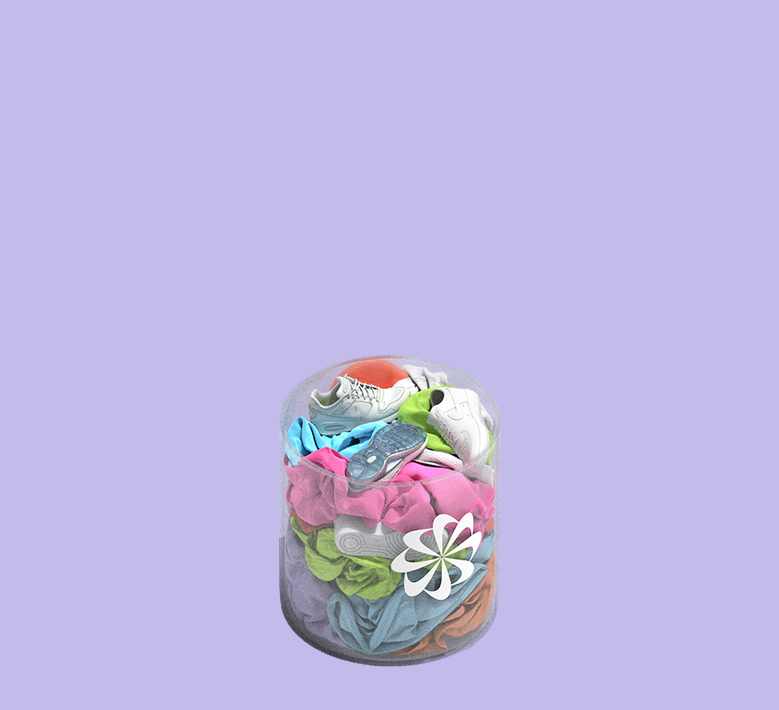
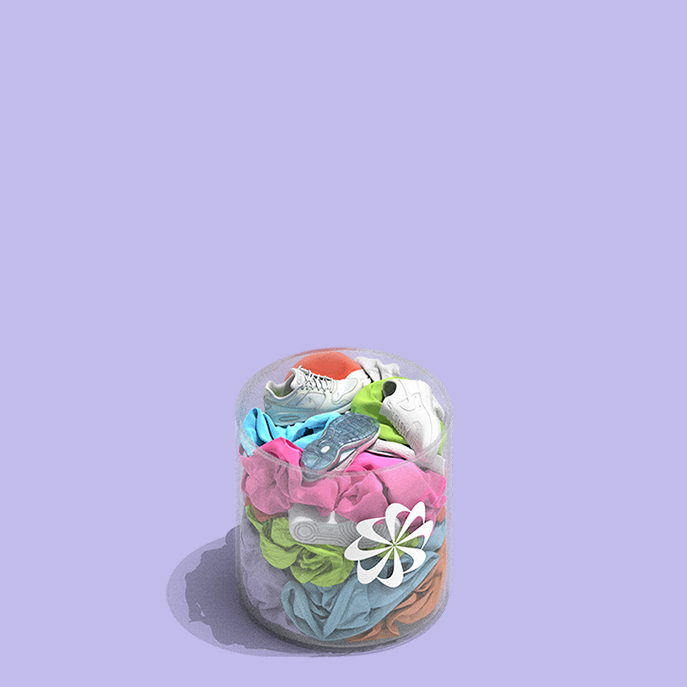
update

Changed region(s): [[0.2445, 0.4891, 0.6725, 0.9782]]

diff --git a/pages/active-activist.js b/pages/active-activist.js
@@ -45,6 +45,7 @@ let data = {
         mobile: {
           bubbleBottom: 75,
           bubbleLeft: 25,
+          bubbleRight: -25,
           avatarWidth: 73,
           avatarLeft: -28,
           avatarBottom: -7,
@@ -129,8 +130,8 @@ let data = {
             text: 'You decide it’s time to give something back to your community, make yourself useful somehow. Something sports related because…'
         },  
         {
-            type: 'tap spam',
-            title: 'Tap spam to make your choice',
+            type: 'like',
+            title: 'Like to make your choice',
             heartImg: `${process.env.basePath}/images/like/heart-fill-ivy.png`,
             squares: [
               {
@@ -166,20 +167,18 @@ let data = {
           text: 'You didn’t think you’d ever last more than a minute playing sports. But a year on from joining the team it’s become such an important part of your life. And that’s because:'
         },
         {
-          type: 'scratch',
-          title: 'Scratch out your choice',
+          type: 'like',
+          title: 'Like to make your choice',
           squares: [
             {
               id: 1,
               title: 'Sport gives you purpose',
-              img: `${process.env.basePath}/images/active-activist/objects/Play_Q4_background.png`,
-              imgBack: `${process.env.basePath}/images/logos/MOVE_TO_ZERO.png`
+              img: `${process.env.basePath}/images/active-activist/objects/Play_Q4.png`,
             },
             {
               id: 1,
               title: 'Sport gives you confidence',
-              img: `${process.env.basePath}/images/active-activist/objects/Play_Q4_background.png`,
-              imgBack: `${process.env.basePath}/images/logos/MOVE_TO_ZERO.png`
+              img: `${process.env.basePath}/images/active-activist/objects/Play_Q4.png`,
             }
           ],
           information: [

diff --git a/components/device-rotation.js b/components/device-rotation.js
@@ -10,7 +10,7 @@ const Container = styled.div`
     left: 0;
     height: 100%;
     width: 100%;
-    background: black;
+    // background: black;
     z-index: 999;
 
     &.show {
@@ -22,61 +22,10 @@ const Container = styled.div`
     }
 
     p {
-        color: white;
+        color: black;
     }
 `;
 
-
-const Overlay = styled.div`
-    position: fixed;
-    height: 100vh;
-    width: 100vw;
-    top: 0;
-    left: 0;
-    background: rgba(0, 0, 0, 0.8);
-    z-index: 1;
-
-    &&.show-overlay {
-        opacity: 1;
-        transition: opacity ease-in-out 0.3s 0s, transform linear 0s 0s;  
-        transform: translateX(0);
-    }
-
-    &&.hide-overlay {
-        opacity: 0;
-        transition: opacity ease-in-out 0.3s, transform linear 0s 0.3s;
-        transform: translateX(-100%);
-    }
-`
-
-
-
-const Close = styled.div`
-    position: absolute;
-    top: 10px;
-    right: 20px;
-    color: black;
-    cursor: pointer;
-    width: fit-content;
-    font-size: 14px;
-`
-
-const Text = styled.div`
-
-    .palatino-small {
-        margin-top: 15px;
-    }
-
-    p {
-        color: black;
-    }
-
-    @media(max-width: 989px) {
-        p {
-            margin-bottom: 0;
-        }
-    }
-`
 
 const Component = () => {
     let [displayNotification, setDisplayNotification] = useState(false)
@@ -90,8 +39,10 @@ const Component = () => {
         window.addEventListener('orientationchange', function() {
             if(window.orientation === 90 || window.orientation === -90) {
                 setDisplayNotification(true)
+                document.querySelectorAll('.hide-on-rotate').forEach(item => item.style.opacity = 0)
             } else {
                 setDisplayNotification(false)
+                document.querySelectorAll('.hide-on-rotate').forEach(item => item.style.opacity = 1)
             }
         }, false)
     }, [])

diff --git a/components/slices/avatar-speech/index.js b/components/slices/avatar-speech/index.js
@@ -59,6 +59,7 @@ const Bubble = styled(motion.div)`
         height: 227.5px;
         bottom: ${props => props.data.intro.mobile.bubbleBottom}vw;
         left: ${props => props.data.intro.mobile.bubbleLeft}vw;
+        // right: ${props => props.data.intro.mobile.bubbleRight}vw;
         clip-path: url(#clipPathMobile);
     }
 `
@@ -72,12 +73,14 @@ const BubbleInner = styled.div`
 
 const PortalReplay = styled(motion.div)`
     position: absolute;
-    bottom: calc(${props => props.data.intro.desktop.bubbleBottom}vw);
-    left: calc(${props => props.data.intro.desktop.bubbleLeft}vw + 405px);
+    // bottom: calc(${props => props.data.intro.desktop.bubbleBottom}vw);
+    // left: calc(${props => props.data.intro.desktop.bubbleLeft}vw + 405px);
+    bottom: ${props => props.data.intro.desktop.bubbleBottom}%;
+    left: calc(${props => props.data.intro.desktop.bubbleLeft}% + 405px);
 
     @media(max-width: 989px) {
-        bottom: calc(${props => props.data.intro.mobile.bubbleBottom}vw + 5px);
-        left: calc(${props => props.data.intro.mobile.bubbleLeft}vw + 200px);
+        bottom: calc(${props => props.data.intro.mobile.bubbleBottom}% + 5px);
+        left: calc(${props => props.data.intro.mobile.bubbleLeft}% + 227px);
     }
 `
 
@@ -109,7 +112,7 @@ export default function Component({ data, avatar, text, smallBubble, disableInVi
         if(disableInView) return
 
         if(isInView) {
-            if(instantReveal) return setStartType(true)
+            if(instantReveal === true) return setStartType(true)
             setTimeout(() => {
                 setStartType(true)
             }, 3000)

diff --git a/pages/_app.js b/pages/_app.js
@@ -211,7 +211,7 @@ function MyApp({ Component, pageProps, router }) {
         <Body content={pageProps.data?.menuData.cookietext} />
       </CookieConsent> */}
         <AnimatePresence mode='wait'>   
-          <motion.div key={router.asPath} initial="pageInitial" animate="pageAnimate" exit="pageExit" variants={desktopVariants}>             
+          <motion.div key={router.asPath} initial="pageInitial" animate="pageAnimate" exit="pageExit" variants={desktopVariants} className='hide-on-rotate'>             
             <Component {...pageProps} />
           </motion.div>
         </AnimatePresence>

diff --git a/components/header.js b/components/header.js
@@ -230,7 +230,7 @@ export default function Header({}) {
 
   return (
     <>
-    <Container ref={headerRef} className='hide-header max-width-header'>
+    <Container ref={headerRef} className='hide-header max-width-header hide-on-rotate'>
       <Link href={state.backLink}><Arrow><img src={`${process.env.basePath}/images/icons/ui-arrow.svg`} /></Arrow></Link>
       <Text ref={headerTextRef}>
         <span>{messageOne}</span>

diff --git a/components/sidebar.js b/components/sidebar.js
@@ -53,7 +53,7 @@ export default function Header({}) {
 
   return (
     <>
-    <Container className='sidebar hide-sidebar'>
+    <Container className='sidebar hide-sidebar hide-on-rotate'>
       <Logo><img src={`${process.env.basePath}/images/logos/nikeimpact-side.svg`} /></Logo>
       <Share currentPageLink={true} />
     </Container>

diff --git a/components/intro/index.js b/components/intro/index.js
@@ -100,10 +100,12 @@ const Arrow = styled.div`
 const Text = styled(motion.div)`
     text-align: center;
     font-size: 32px;
-    margin-bottom: 30px;
+    max-width: 350px;
+    margin: 0 auto;
 
     @media(max-width: 989px) {
         font-size: 25px;
+        max-width: 275px;
     }
 `
 

diff --git a/pages/people-promoter.js b/pages/people-promoter.js
@@ -45,6 +45,7 @@ let data = {
         mobile: {
           bubbleBottom: 75,
           bubbleLeft: 25,
+          bubbleRight: -26.3,
           avatarWidth: 70,
           avatarLeft: -30,
           avatarBottom: -5,

diff --git a/pages/climate-champion.js b/pages/climate-champion.js
@@ -45,6 +45,7 @@ let data = {
         mobile: {
           bubbleBottom: 75,
           bubbleLeft: 25,
+          bubbleRight: -25,
           avatarWidth: 70,
           avatarLeft: -35,
           avatarBottom: -5,

diff --git a/components/slices/praise/index.js b/components/slices/praise/index.js
@@ -96,6 +96,7 @@ const AvatarSpeechWrapper = styled(motion.div)`
 
         img {
             width: 724px;
+            height: auto;
         }
     }
 
